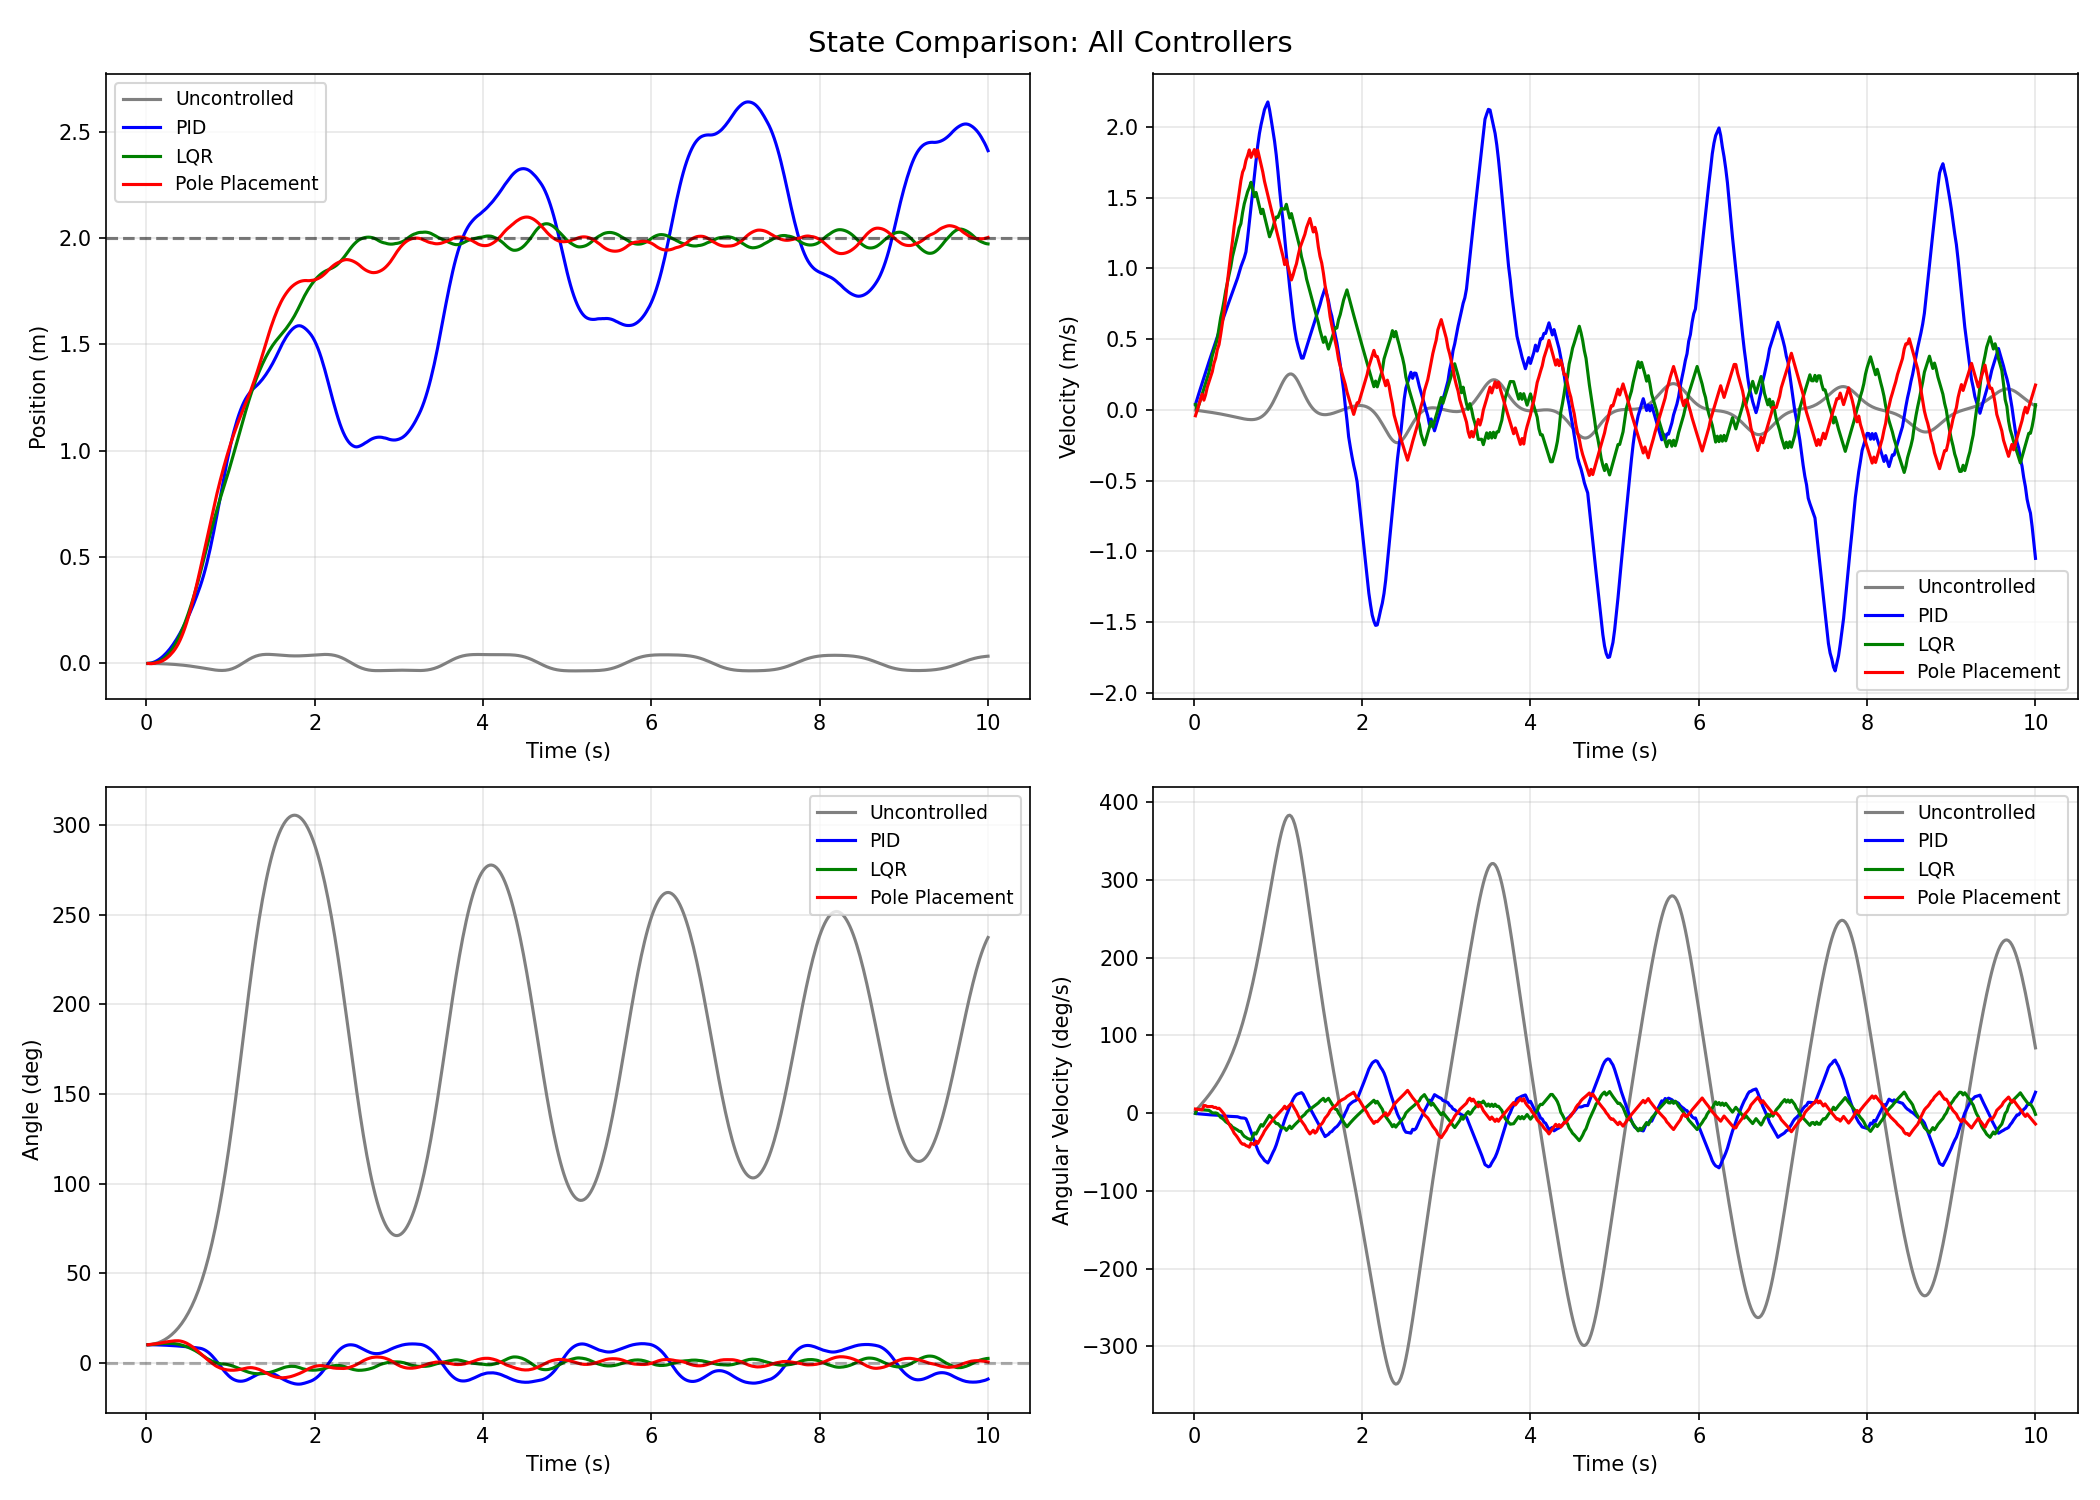
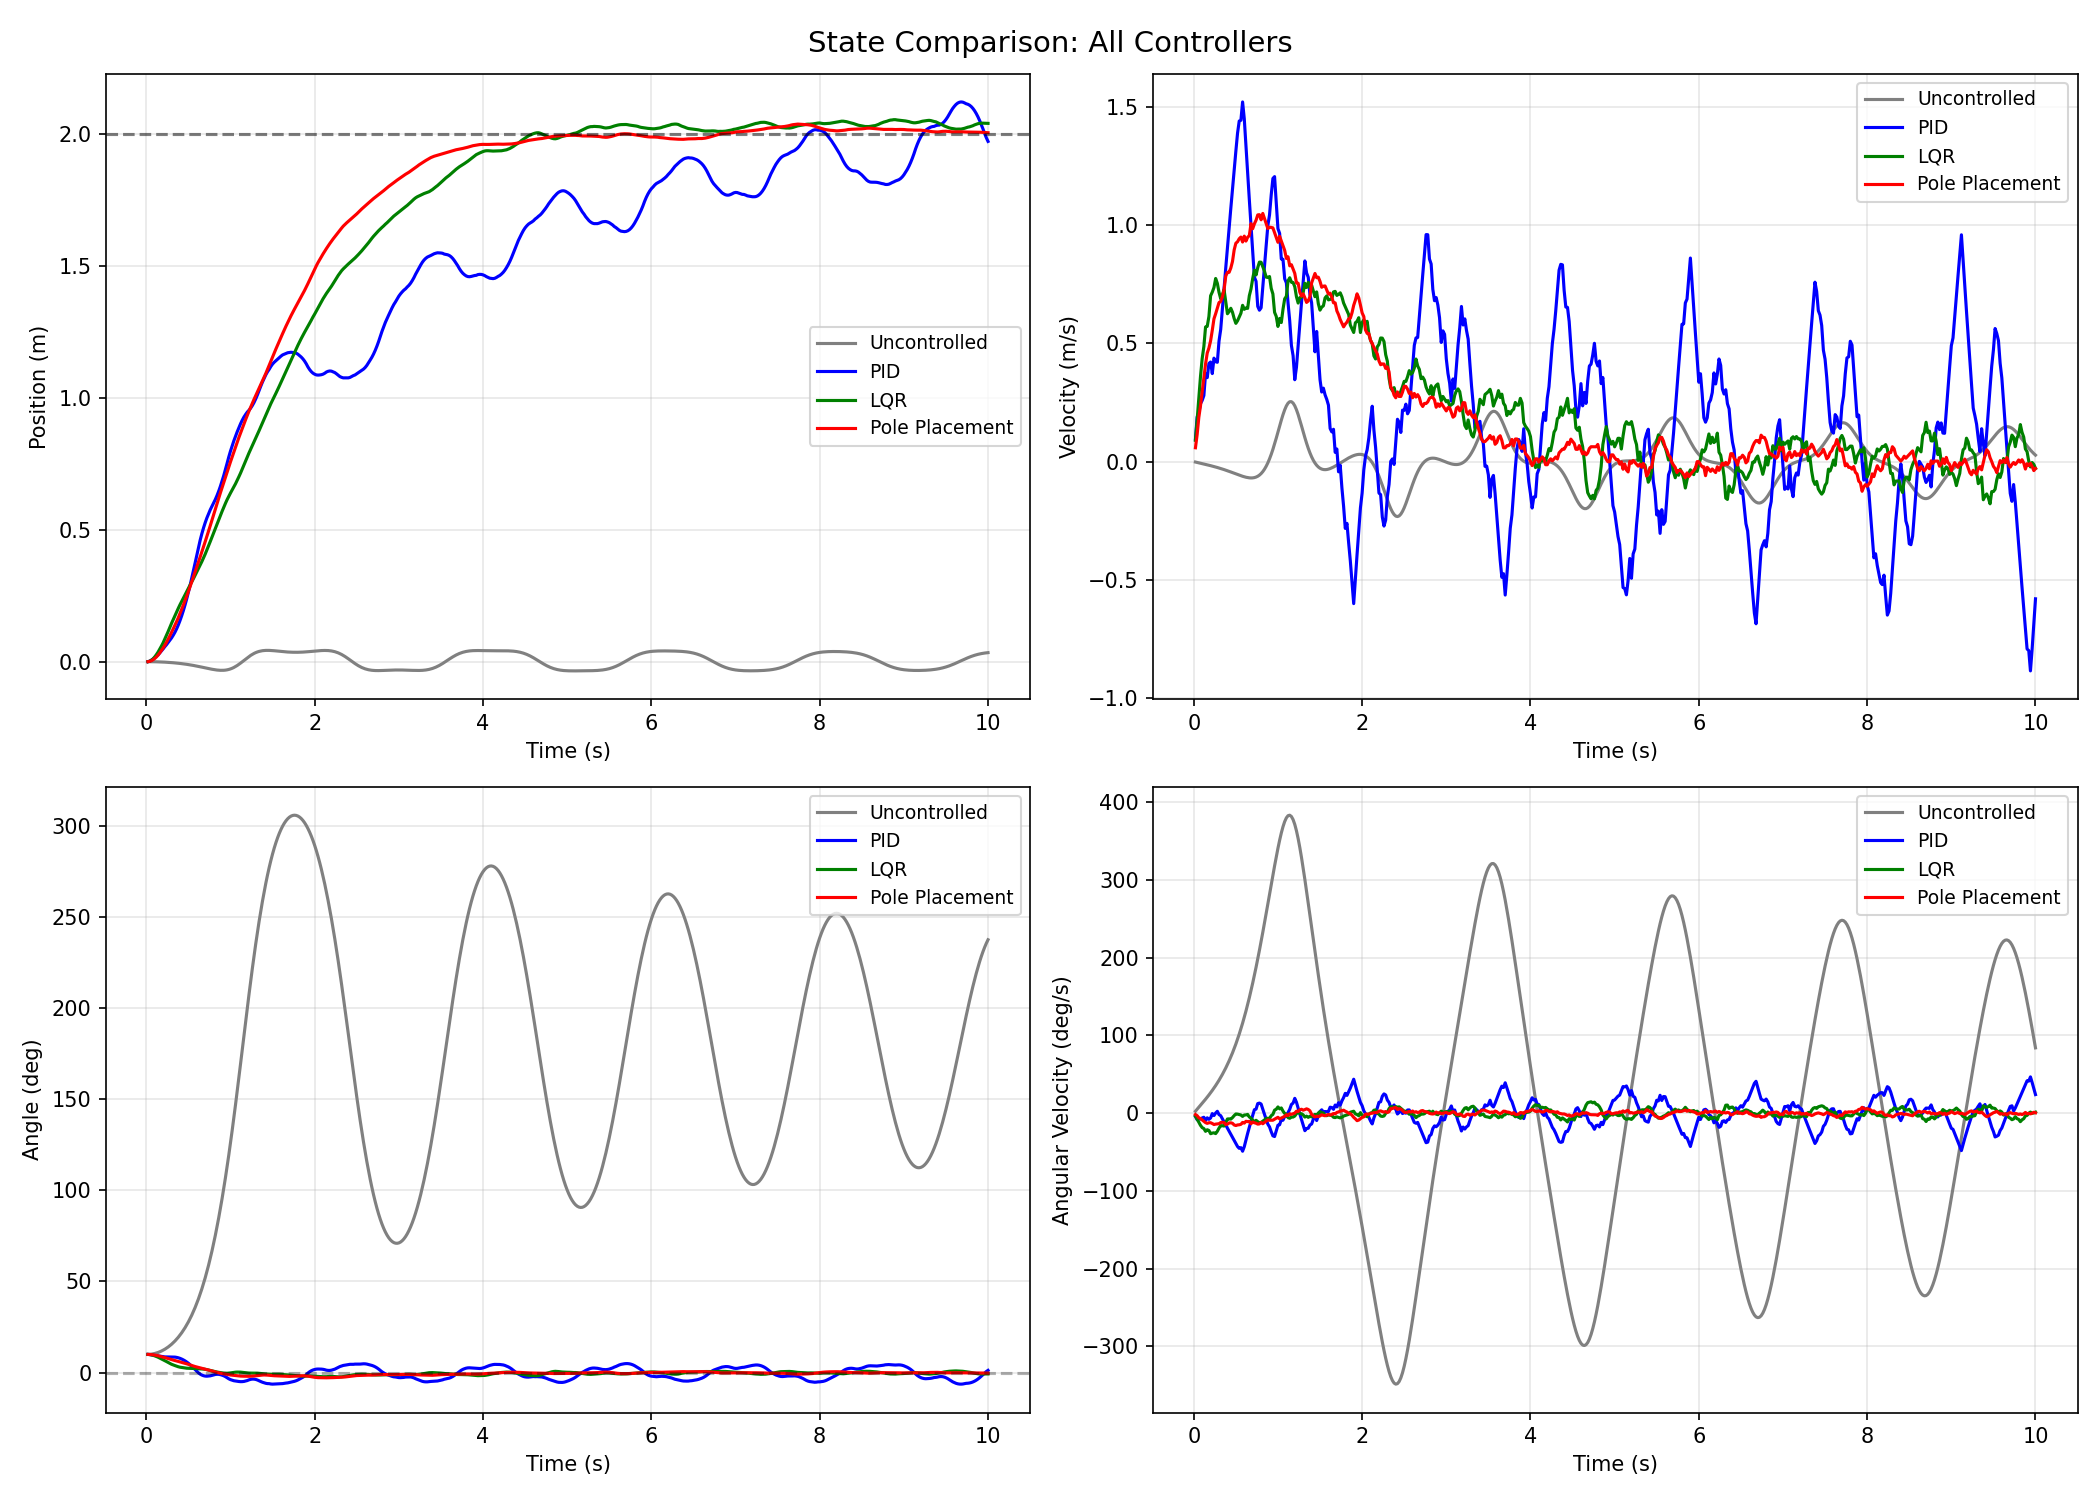
Updated plots and tuned PID

diff --git a/src/generate_plots.py b/src/generate_plots.py
@@ -118,8 +118,8 @@ def generate_comparison_plots(
     
     motor = MotorModel(
         num_motors=4, wheel_radius=0.03,
-        voltage_min=3.0, voltage_max=9.0,
-        rpm_at_nominal=90.0, voltage_nominal=4.5
+        voltage_min=1.0, voltage_max=12.0,
+        rpm_at_nominal=170.0, voltage_nominal=12.0
     )
     
     state_processor = NoisyStateProcessor(
@@ -127,21 +127,18 @@ def generate_comparison_plots(
         tau_position=0.1, tau_angle=0.08, dt=0.02
     )
     
-    # Controllers - Tuned for motor constraints (~6N max force)
-    pid = PIDController(kp=35.0, ki=0.5, kd=12.0, kp_pos=1.0, ki_pos=0.02, kd_pos=2.5, x_target=2.0, max_angle_setpoint=0.12)
+    # Controllers - Tuned for LP 12V motor constraints (~4.8N max force)
+    pid = PIDController(x_target=2.0)  # Uses optimized defaults
     lqr = LQRController(
         cart_mass=cart_pole.M, pendulum_mass=cart_pole.m,
         rod_length=cart_pole.L, cart_friction=cart_pole.b,
-        rotational_damping=cart_pole.c, gravity=cart_pole.g,
-        Q=np.diag([8.0, 3.0, 50.0, 5.0]),  # Increased x weight for faster response
-        R=np.array([[0.3]])  # Reduced R to allow more control effort
-    )
+        rotational_damping=cart_pole.c, gravity=cart_pole.g
+    )  # Uses optimized Q=[1,1,100,10], R=0.5 defaults
     pole_placement = PolePlacementController(
         cart_mass=cart_pole.M, pendulum_mass=cart_pole.m,
         rod_length=cart_pole.L, cart_friction=cart_pole.b,
-        rotational_damping=cart_pole.c, gravity=cart_pole.g,
-        poles=np.array([-2.0, -2.5, -3.0, -3.5])  # Slightly faster poles
-    )
+        rotational_damping=cart_pole.c, gravity=cart_pole.g
+    )  # Uses optimized poles=[-1.5,-1.7,-1.9,-2.1] defaults
     
     controllers = [
         (None, 'Uncontrolled'),
@@ -243,9 +240,9 @@ def generate_comparison_plots(
     ax_volt.set_xlabel('Time (s)')
     ax_volt.grid(True, alpha=0.3)
     ax_volt.legend(loc='best')
-    ax_volt.axhline(3.0, color='k', linestyle=':', alpha=0.5, label='V_min')
-    ax_volt.axhline(9.0, color='k', linestyle=':', alpha=0.5, label='V_max')
-    ax_volt.set_ylim(-0.5, 10)
+    ax_volt.axhline(1.0, color='k', linestyle=':', alpha=0.5, label='V_min')
+    ax_volt.axhline(12.0, color='k', linestyle=':', alpha=0.5, label='V_max')
+    ax_volt.set_ylim(-0.5, 14)
     
     plt.tight_layout()
     if save_plots:

diff --git a/src/main_interactive.py b/src/main_interactive.py
@@ -167,9 +167,9 @@ class InteractiveSimulation:
         self.ax_kd = self.fig.add_axes([0.22, 0.20, 0.22, 0.025])
         self.pid_axes = [self.ax_kp, self.ax_ki, self.ax_kd]
         
-        self.slider_kp = Slider(self.ax_kp, 'Kp', 0, 100, valinit=55.0)
-        self.slider_ki = Slider(self.ax_ki, 'Ki', 0, 5, valinit=2.0)
-        self.slider_kd = Slider(self.ax_kd, 'Kd', 0, 40, valinit=26.0)
+        self.slider_kp = Slider(self.ax_kp, 'Kp', 0, 100, valinit=78.0)
+        self.slider_ki = Slider(self.ax_ki, 'Ki', 0, 5, valinit=1.5)
+        self.slider_kd = Slider(self.ax_kd, 'Kd', 0, 50, valinit=32.0)
         
         self.slider_kp.on_changed(self._on_pid_change)
         self.slider_ki.on_changed(self._on_pid_change)

diff --git a/src/controller.py b/src/controller.py
@@ -9,14 +9,14 @@ class PIDController:
     
     def __init__(
         self,
-        kp: float = 55.0,
-        ki: float = 2.0,
-        kd: float = 26.0,
-        kp_pos: float = 0.05,
-        ki_pos: float = 0.004,
-        kd_pos: float = 0.11,
+        kp: float = 78.0,
+        ki: float = 1.5,
+        kd: float = 32.0,
+        kp_pos: float = 0.11,
+        ki_pos: float = 0.003,
+        kd_pos: float = 0.50,
         x_target: float = 2.0,
-        max_angle_setpoint: float = 0.09
+        max_angle_setpoint: float = 0.10
     ):
         # Angle PID gains
         self.kp = kp

diff --git a/README.md b/README.md
@@ -67,24 +67,26 @@ All controllers have dual objectives:
 Cascaded control: position error → angle setpoint → force.
 - Outer loop: position PD generates desired tilt angle
 - Inner loop: angle PID stabilizes to that setpoint
-- Default gains: Kp=100, Ki=0.5, Kd=20, Kp_pos=0.3, Kd_pos=0.5
+- Default gains: Kp=78, Ki=1.5, Kd=32, Kp_pos=0.11, Ki_pos=0.003, Kd_pos=0.50
 
 ### LQR Controller
 Optimal full-state feedback minimizing J = ∫(x'Qx + u'Ru)dt.
-- Default: Q = diag([1, 1, 100, 10]), R = 0.1
+- Default: Q = diag([1, 1, 100, 10]), R = 0.5
 - Setpoint: [2, 0, 0, 0] (x=2m, stationary, upright)
 
 ### Pole Placement Controller
 Full-state feedback with directly specified closed-loop poles.
-- Default poles: [-2, -3, -4, -5]
+- Default poles: [-1.5, -1.7, -1.9, -2.1]
 - Setpoint: [2, 0, 0, 0] (x=2m, stationary, upright)
 
 ## DC Motor Model
 
-Realistic motor model for physical implementation:
-- **4 motors**, voltage range 3V-9V
-- **90 RPM at 4.5V** (after 1:48 gear reduction)
+Realistic motor model for physical implementation (LP 12V):
+- **4 motors**, voltage range 1V-12V
+- **170 RPM at 12V** (no-load speed)
+- **Stall torque: 3.7 kg·cm**, Stall current: 0.9A
 - **30mm wheel radius**
+- **Max force: ~4.8N**
 
 Converts controller force to motor voltage with:
 - Back-EMF at high speeds
